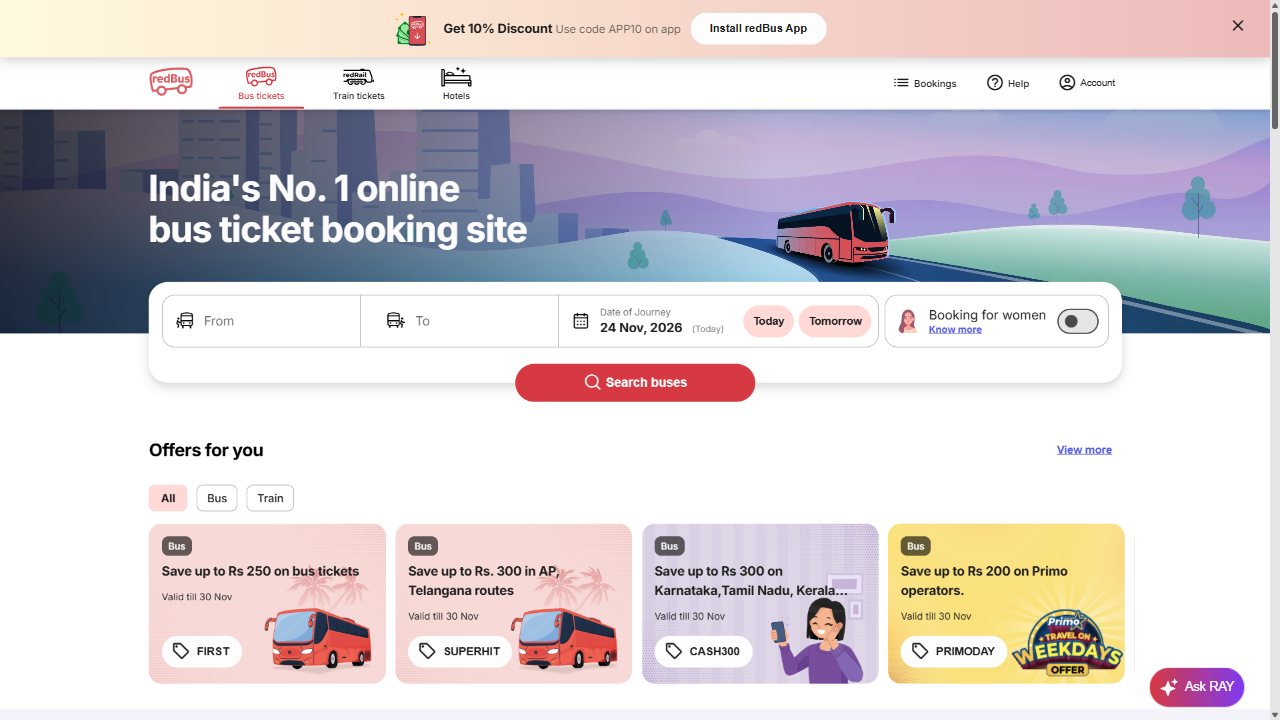
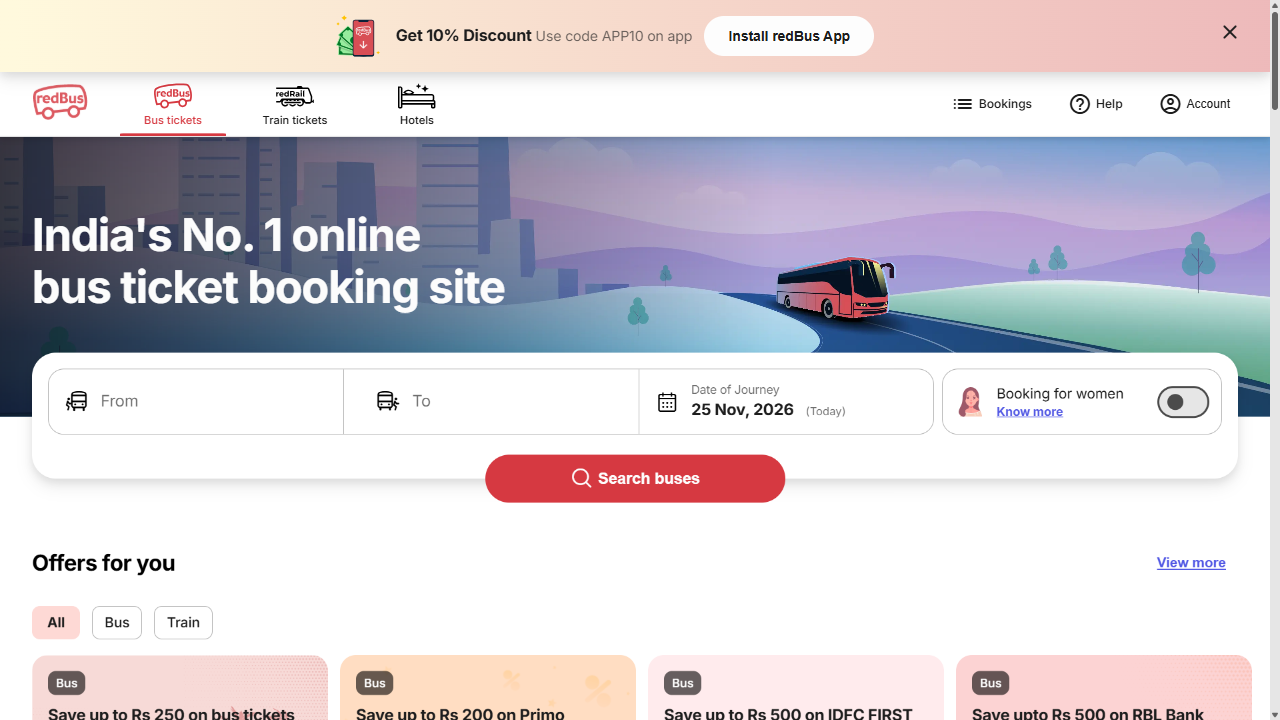
allure reports added

diff --git a/tests/alerts-js-demoqa-js-alerts.spec.js b/tests/alerts-js-demoqa-js-alerts.spec.js
@@ -1,0 +1,53 @@
+import {test, expect} from '@playwright/test'
+
+test('handling JS alerts', async({page})=>{
+    await page.goto('https://demoqa.com/');
+    await page.getByRole('link', {name: 'Elements'}).click();
+    await page.getByText('Alerts, Frame & Windows').click();
+    await page.locator('[href="/alerts"]').click();
+    
+    
+    // event listerner -dialog 
+    // Dialog is reference variable to access methods from the listener
+    // it is sync function
+
+    page.on('dialog', (Dialog) =>{
+        console.log(Dialog.message())
+        console.log(Dialog.type())
+        // Dialog.accept()
+        if ( Dialog.type() === 'alert'){
+            console.log(Dialog.message())
+            Dialog.accept()
+
+        } else if (Dialog.type() === 'confirm'){
+            console.log(Dialog.message())
+            Dialog.dismiss()
+
+        } else if (Dialog.type() == 'prompt'){
+            console.log(Dialog.message())
+            Dialog.accept('deva')
+        }
+    
+
+    })
+
+
+    await page.locator('#alertButton').click();
+    await page.locator('#confirmButton').click();
+    await page.locator('#promtButton').click();
+
+
+    // const dialogPromise = page.waitForEvent('dialog', { timeout: 10000 });
+    // await page.locator('#timerAlertButton').click();
+
+    // const timerDialog = await dialogPromise;
+    // console.log('Timer alert type:', timerDialog.type());
+    // console.log('Timer alert message:', timerDialog.message());
+    // expect(timerDialog.message()).toBe('This alert appeared after 5 seconds');
+    // await timerDialog.accept();
+
+
+
+
+
+})

diff --git a/tests/iframe.spec.js b/tests/iframe.spec.js
@@ -1,0 +1,26 @@
+import {test, expect} from '@playwright/test'
+
+test('handling JS alerts', async({page})=>{
+    await page.goto('https://practice-automation.com/iframes/');
+
+
+    const frame1 = page.frameLocator('iframe[name="top-iframe"]')
+
+    // div[class="navbar__inner"] div
+    await frame1.locator('//a[text()="MCP"]').click()
+
+    
+    console.log('test completed')
+
+    
+    // .getByRole('link', {name: 'MCP'}).click()
+    
+    // .getByRole('link', {name: 'MCP'}).click()
+
+    // await frame1.locator('div[class="navbar__inner"]').getByRole('link', {name: 'MCP'}).click()
+    // const frame1 = await page.frameLocator('[name="top-iframe"]').getByRole('link', {name: 'MCP'}).click()
+    // await frame1.getByRole('link', {name: 'Installation'}).click()
+    // await frame1.locator('span[title="Getting Started"]').click()
+    // await frame1.locator('//ul[@class="menu__list"]//span[text()="Installation"]').click()
+
+})

diff --git a/playwright.config.js b/playwright.config.js
@@ -20,10 +20,10 @@ export default defineConfig({
   forbidOnly: !!process.env.CI,
   /* Retry on CI only */
   retries: process.env.CI ? 2 : 0,
-  /* Opt out of parallel tests on CI. */
-  workers: process.env.CI ? 1 : undefined,
+  /* Opt out of parallel tests on CI. #undefined changed to 1 in local*/
+  workers: process.env.CI ? 1 : 1,
   /* Reporter to use. See https://playwright.dev/docs/test-reporters */
-  reporter: 'html',
+  reporter: [['html'], ['allure-playwright']],
   /* Shared settings for all the projects below. See https://playwright.dev/docs/api/class-testoptions. */
   use: {
     /* Base URL to use in actions like `await page.goto('')`. */

diff --git a/tests/alerts-dom-flipkart.spec.js b/tests/alerts-dom-flipkart.spec.js
@@ -1,0 +1,16 @@
+import {test} from '@playwright/test'
+
+test('General/DOM popup', async({page})=>{
+    
+    await page.goto('https://www.flipkart.com/');
+    try{
+    
+    await page.waitForSelector('.b3wTlE', {timeout: 5000}); 
+    await page.locator('[inputmode="numeric"]').fill('6381866832');
+    await page.locator('.b3wTlE').click();
+    }
+    catch{
+        console.log('popup not came');
+    }
+
+} )

diff --git a/allure-results/182017b7-d76d-4972-909f-8c5abc5bbfba-attachment.md b/allure-results/182017b7-d76d-4972-909f-8c5abc5bbfba-attachment.md
@@ -1,0 +1,55 @@
+# Instructions
+
+- Following Playwright test failed.
+- Explain why, be concise, respect Playwright best practices.
+- Provide a snippet of code with the fix, if possible.
+
+# Test info
+
+- Name: navigation.spec.js >> page navigators
+- Location: tests\navigation.spec.js:3:1
+
+# Error details
+
+```
+Error: page.goto: Navigation to "https://www.redbus.in/" is interrupted by another navigation to "https://www.amazon.in/"
+Call log:
+  - navigating to "https://www.redbus.in/", waiting until "load"
+
+```
+
+# Test source
+
+```ts
+  1  | import {test} from '@playwright/test'
+  2  | 
+  3  | test('page navigators', async ({page})=>{
+  4  |     await page.goto('https://www.amazon.in/');
+  5  |     await page.waitForTimeout(2000);
+> 6  |     await page.goto('https://www.redbus.in/');
+     |                ^ Error: page.goto: Navigation to "https://www.redbus.in/" is interrupted by another navigation to "https://www.amazon.in/"
+  7  |     await page.waitForTimeout(2000);
+  8  |     const URL = page.url();
+  9  |     console.log(URL);
+  10 |     const title = await page.title();
+  11 |     console.log(title)
+  12 |     await page.screenshot({path : './screenshot/redbus.png'});
+  13 |     await page.goto('https://www.saucedemo.com/'); 
+  14 |     await page.screenshot({path : './screenshot/saucedemo.png'});
+  15 |     // await page.waitForTimeout(2000);
+  16 |     await page.goBack();
+  17 |     // await page.waitForTimeout(2000);
+  18 |     await page.goBack();
+  19 |     await page.goForward();
+  20 |     await page.goForward();
+  21 |     await page.reload();
+  22 | 
+  23 | 
+  24 | 
+  25 | 
+  26 | 
+  27 | 
+  28 | 
+  29 | 
+  30 | })
+```
